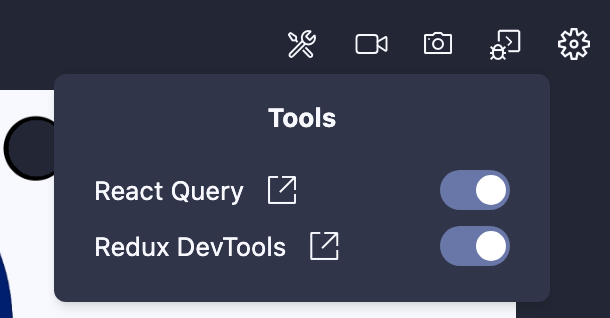
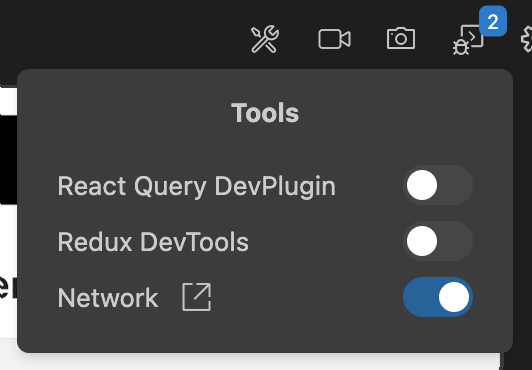
Update devtools docs

Changed region(s): [[0.0, 0.0, 1.0, 1.0]]

diff --git a/packages/docs/docs/features/dev-tools.md b/packages/docs/docs/features/dev-tools.md
@@ -4,11 +4,13 @@ title: Dev Tools (experimental)
 sidebar_position: 7
 ---
 
-Radon IDE 1.2 comes with an experimental support for launching Dev Tools as separate panels withing VSCode or Cursor.
+Radon IDE comes with an experimental support for launching Dev Tools as separate panels withing VSCode or Cursor.
 
-Currently, only limited set of tools is available, and the existing ones only integrate with the [Expo Devtools Plugins](https://docs.expo.dev/debugging/devtools-plugins/) and therefore require Expo Devtools Plugins to be setup for each individual tool to work.
+Currently, only limited set of tools is available.
+The Network Inspector and Redux tools are built into the Radon IDE and doesn't require any additional configuration.
+The remaining tools rely on the [Expo Devtools Plugins](https://docs.expo.dev/debugging/devtools-plugins/) being setup for those individual tools to work (wee instructions below).
 
-When the IDE detects that a certain tool is available and configured properly (see below for details on configuring individual tools), it will be listed in the tools menu where you can turn it on and off:
+When the IDE detects that a specific tool is available and configured properly (see below for details on configuring individual tools), it will be listed in the tools menu where you can turn it on and off:
 <img width="350" src="/img/docs/ide_devtools_menu.png" className="shadow-image" />
 
 When the tool is enabled in your project, you will get a new panel opened in VSCode:
@@ -21,6 +23,22 @@ You can quickly navigate to the panel from the tools menu by using the "link" ic
 Tool on/off setting is persisted locally for the scope of your project (VSCode or Cursor workspace).
 Therefore when you open the project next time in the IDE, the tool panel will launch automatically.
 It will also be kept open when you switch between different devices across that project.
+
+## Network Inspector
+
+This panel doesn't require any additional configuration and should be available as soon as your app is launched.
+Network panel will capture and list all requests triggeded by the JavaScript code (with HXR / fetch or wrappers like Axios/Apollo etc).
+Images or websocket connections aren't currently supported and won't show up.
+
+<img width="700" src="/img/docs/ide_devtools_network_inspector.png" className="shadow-image" />
+
+## Redux
+
+This plugin doesn't require any additional configutation.
+If your app uses Redux, the IDE will automatically detect that, and Redux plugin will be listed in the Dev Tools menu where you can enable it.
+Once enabled you will be able to use the official Redux UI (same one as the Redux Chrome extension) from within your editor panel:
+
+<img width="700" src="/img/docs/ide_devtools_redux.png" className="shadow-image" />
 
 ## Redux (via Expo Devtools Plugin)
 
